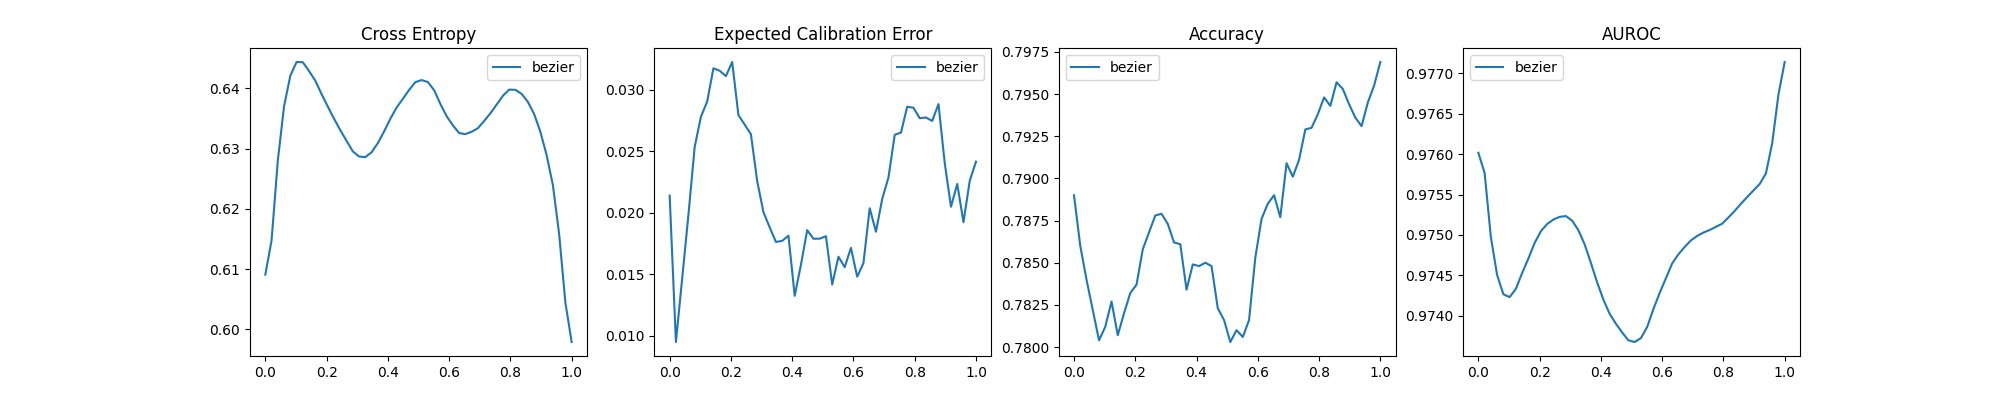
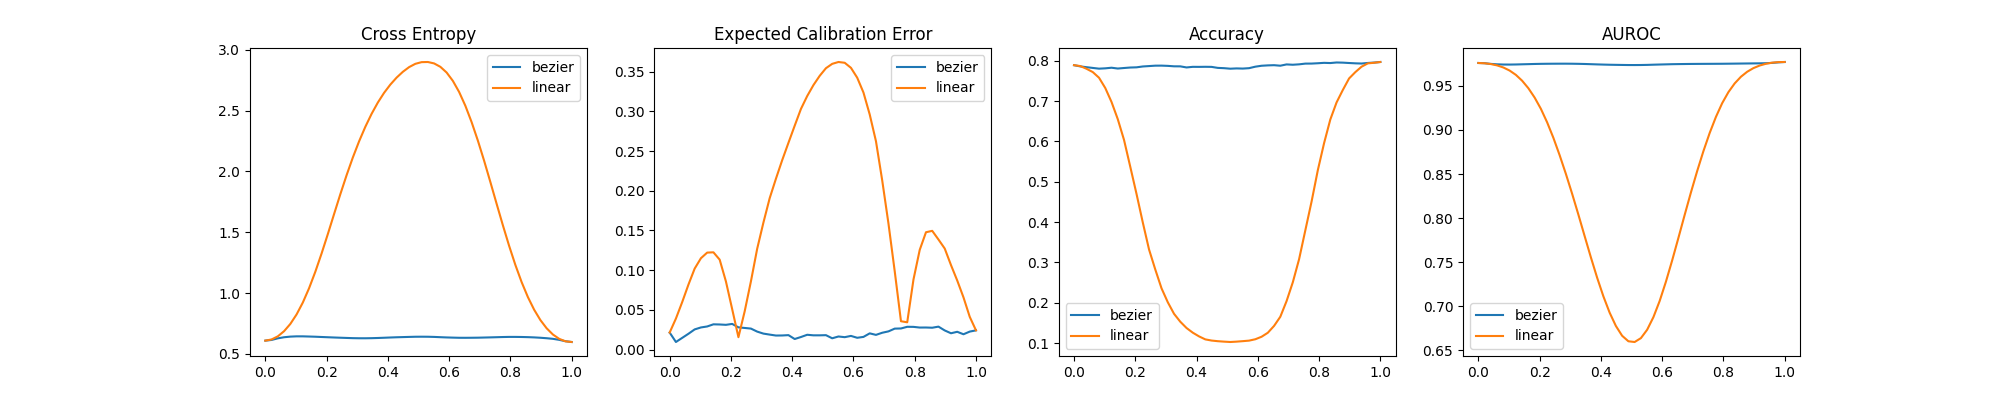
Finale edit

diff --git a/src/models.py b/src/models.py
@@ -354,88 +354,6 @@ class linear_functionestimator(nn.Module):
         return x
 
 
-class CurveParameterization(nn.Module):
-    def __init__(self, curve_fn, t,  param_start, param_end, param_theta):
-        super(CurveParameterization, self).__init__()
-        self.param_start = param_start
-        self.param_end = param_end
-        self.param_theta = param_theta
-        self.t = t
-        self.curve_fn = curve_fn
-
-    def forward(self, x):
-        return self.curve_fn(self.param_start, self.param_end, self.param_theta, self.t)
-
-class Curve(nn.Module):
-    def __init__(self, model_start, model_end, curve_fn, device="cpu"):
-        super(Curve, self).__init__()
-        assert type(model_start) == type(model_end)
-        self.model_start = model_start.requires_grad_(False)
-        self.model_end = model_end.requires_grad_(False)
-        self.model_theta = type(model_start)().to(device)
-        self.sampled_model = type(model_start)().to(device)
-        self.curve_fn = curve_fn
-        self.t = 0
-        self.initiate_theta()
-        self.device=device
-
-    def initiate_theta(self):
-        for param1, param2, param3 in zip(self.model_start.parameters(), 
-                                          self.model_end.parameters(), 
-                                          self.model_theta.parameters()):
-                param3.data = param1.data/2 +  param2.data/2
-
-    def sample_t(self):
-        self.t = torch.distributions.Uniform(0, 1).sample()
-
-    def sample_model(self, t=None, verbose=False):
-        if t == None:
-            t = self.t
-        param_dicts = []
-        self.sampled_model = type(self.model_start)().to(self.device) # overwrite the model, so as to delete previously made reparametrizations
-        for module_start, module_end, module_theta, module_sampled in zip(self.model_start.named_modules(), self.model_end.named_modules(), 
-                                                                          self.model_theta.named_modules(), self.sampled_model.named_modules()):
-            if verbose:
-                print(f"\nModule: {module_start[0]}")
-            for param_start, param_end, param_theta, param_sampled in zip(module_start[1].named_parameters(recurse=False), 
-                                                                          module_end[1].named_parameters(recurse=False), 
-                                                                          module_theta[1].named_parameters(recurse=False), 
-                                                                          module_sampled[1].named_parameters(recurse=False)):
-                if verbose:
-                    print(f"Parameter: {param_sampled[0]}")
-                param_dicts.append({"module_name": module_sampled[0], 
-                                    "module_sampled": module_sampled[1],
-                                    "param_name": param_sampled[0],
-                                    "param_start": param_start[1], 
-                                    "param_end": param_end[1], 
-                                    "param_theta": param_theta[1],
-                                    "param_name_theta": param_theta[0],
-                                    "module_name_theta": module_theta[0]
-                                    })
-        if verbose:
-            print("\n\nParametrizing model")
-        for param_dict in param_dicts:
-            if verbose:
-                print("\n\nXXXXXXXXXXXXXXXXXXXXXXXXXXXXXXXXXXXXXXXXXXXXXXXXXXXXXXXXXXX")
-                print(f"Module_name: {param_dict['module_name']}")
-                print(f"Module_sampled: {param_dict['module_sampled']}")
-                print(f"Parameter: {param_dict['param_name']}")
-                print(f"Theta Parameter name: {param_dict['param_name_theta']}")
-                print(f"Theta Model name: {param_dict['module_name_theta']}")
-
-            param_curve = CurveParameterization(self.curve_fn, t, param_dict["param_start"].data, param_dict["param_end"].data, param_dict["param_theta"])
-            torch.nn.utils.parametrize.register_parametrization(param_dict["module_sampled"], param_dict["param_name"], param_curve)
-            if verbose:
-                print("\nafter reparam:")
-                print(f"Module_name: {param_dict['module_name']}")
-                print(f"Module_sampled: {param_dict['module_sampled']}")
-                print(f"Parameter: {param_dict['param_name']}")
-                print("XXXXXXXXXXXXXXXXXXXXXXXXXXXXXXXXXXXXXXXXXXXXXXXXXXXXXXXXXXX")
-
-    def forward(self, x):
-        return self.sampled_model(x)
-
-
 
 
 

diff --git a/src/curve_model.py b/src/curve_model.py
@@ -1,0 +1,85 @@
+import torch
+import torch.nn as nn
+import torch.nn.utils.parametrize
+
+class CurveParameterization(nn.Module):
+    def __init__(self, curve_fn, t,  param_start, param_end, param_theta):
+        super(CurveParameterization, self).__init__()
+        self.param_start = param_start
+        self.param_end = param_end
+        self.param_theta = param_theta
+        self.t = t
+        self.curve_fn = curve_fn
+
+    def forward(self, x):
+        return self.curve_fn(self.param_start, self.param_end, self.param_theta, self.t)
+
+class Curve(nn.Module):
+    def __init__(self, model_start, model_end, curve_fn, device="cpu"):
+        super(Curve, self).__init__()
+        assert type(model_start) == type(model_end)
+        self.model_start = model_start.requires_grad_(False)
+        self.model_end = model_end.requires_grad_(False)
+        self.model_theta = type(model_start)().to(device)
+        self.sampled_model = type(model_start)().to(device)
+        self.curve_fn = curve_fn
+        self.t = 0
+        self.initiate_theta()
+        self.device=device
+
+    def initiate_theta(self):
+        for param1, param2, param3 in zip(self.model_start.parameters(), 
+                                          self.model_end.parameters(), 
+                                          self.model_theta.parameters()):
+                param3.data = param1.data/2 +  param2.data/2
+
+    def sample_t(self):
+        self.t = torch.distributions.Uniform(0, 1).sample()
+
+    def sample_model(self, t=None, verbose=False):
+        if t == None:
+            t = self.t
+        param_dicts = []
+        self.sampled_model = type(self.model_start)().to(self.device) # overwrite the model, so as to delete previously made reparametrizations
+        for module_start, module_end, module_theta, module_sampled in zip(self.model_start.named_modules(), self.model_end.named_modules(), 
+                                                                          self.model_theta.named_modules(), self.sampled_model.named_modules()):
+            if verbose:
+                print(f"\nModule: {module_start[0]}")
+            for param_start, param_end, param_theta, param_sampled in zip(module_start[1].named_parameters(recurse=False), 
+                                                                          module_end[1].named_parameters(recurse=False), 
+                                                                          module_theta[1].named_parameters(recurse=False), 
+                                                                          module_sampled[1].named_parameters(recurse=False)):
+                if verbose:
+                    print(f"Parameter: {param_sampled[0]}")
+                param_dicts.append({"module_name": module_sampled[0], 
+                                    "module_sampled": module_sampled[1],
+                                    "param_name": param_sampled[0],
+                                    "param_start": param_start[1], 
+                                    "param_end": param_end[1], 
+                                    "param_theta": param_theta[1],
+                                    "param_name_theta": param_theta[0],
+                                    "module_name_theta": module_theta[0]
+                                    })
+        if verbose:
+            print("\n\nParametrizing model")
+        for param_dict in param_dicts:
+            if verbose:
+                print("\n\nXXXXXXXXXXXXXXXXXXXXXXXXXXXXXXXXXXXXXXXXXXXXXXXXXXXXXXXXXXX")
+                print(f"Module_name: {param_dict['module_name']}")
+                print(f"Module_sampled: {param_dict['module_sampled']}")
+                print(f"Parameter: {param_dict['param_name']}")
+                print(f"Theta Parameter name: {param_dict['param_name_theta']}")
+                print(f"Theta Model name: {param_dict['module_name_theta']}")
+
+            param_curve = CurveParameterization(self.curve_fn, t, param_dict["param_start"].data, param_dict["param_end"].data, param_dict["param_theta"])
+            torch.nn.utils.parametrize.register_parametrization(param_dict["module_sampled"], param_dict["param_name"], param_curve)
+            if verbose:
+                print("\nafter reparam:")
+                print(f"Module_name: {param_dict['module_name']}")
+                print(f"Module_sampled: {param_dict['module_sampled']}")
+                print(f"Parameter: {param_dict['param_name']}")
+                print("XXXXXXXXXXXXXXXXXXXXXXXXXXXXXXXXXXXXXXXXXXXXXXXXXXXXXXXXXXX")
+
+    def forward(self, x):
+        return self.sampled_model(x)
+

diff --git a/src/modeconnectivity.py b/src/modeconnectivity.py
@@ -6,7 +6,8 @@ import torchmetrics
 from torchvision import datasets, transforms
 from torch.utils.data import DataLoader
 from matplotlib import pyplot as plt
-from models import MyNet, Lenet5, tiny, Curve, CurveParameterization, MyNet_small, CIFAR10ConvNet
+from models import MyNet, Lenet5, tiny, MyNet_small, CIFAR10ConvNet
+from curve_model import Curve
 from train import train
 from torchviz import make_dot
 import numpy as np
@@ -318,8 +319,10 @@ def curve_fitting(**kargs):
         fig, axs, eval_results = bezier_plot(curve, device, test_loader=test_loader, plottype="linear", 
                                N_bezierpoints = bezierpoints,
                                logger_info=logger.info, plot_linear=False, metrics_dict=metrics_dict)
-        fig.savefig(f"{base_directory}/figures/metric_along_curve_linear.png")
+        fig.savefig(f"{base_directory}/figures/metric_along_curve.png")
         plt.close()
+
+        
 
     #if eval_curve:
     #    curve_eval(curve, samplesize=curve_eval_samplesize, test_loader=test_loader, device=device, logger_info=logger.info, metrics_dict=metrics_dict)
@@ -327,13 +330,13 @@ def curve_fitting(**kargs):
 if __name__ == "__main__":
     parser = argparse.ArgumentParser(description='Mode connectivity')
     parser.add_argument('--basefolder', type=str, help='Folder to store results')
-    parser.add_argument('--createnewfolder', default=False, help='Create new folder if basefolder already exists', type=eval, choices=[True, False])
+    parser.add_argument('--createnewfolder', default=True, help='Create new folder if basefolder already exists', type=eval, choices=[True, False])
     parser.add_argument('--datafolder', type=str, help='Folder to store data')
     parser.add_argument('--dataset', default = "CIFAR10", type=str, help='Dataset to use', choices=["MNIST", "FashionMNIST", "CIFAR10"])
     parser.add_argument('--batchsize', default = 256, type=int, help='Batch size')
     parser.add_argument('--seed', type=int, help='Seed')
     parser.add_argument('--model', default = "CIFAR10ConvNet",  type=str, help='Model to use (MyNet/Lenet5/tiny/MyNet_small/CIFAR10ConvNet)', choices=["MyNet", "Lenet5", "tiny", "MyNet_small", "CIFAR10ConvNet"])
-    parser.add_argument('--retrain', default = False, help='Retrain models if already present in folder', type=eval, choices=[True, False])
+    parser.add_argument('--retrain', default = True, help='Retrain models if already present in folder', type=eval, choices=[True, False])
     parser.add_argument('--model_lr_start', default = 1e-4, type=float, help='Learning rate start')
     parser.add_argument('--model_lr_end', default = 2e-3, type=float, help='Learning rate end')
     parser.add_argument('--model_epochs', default = 100, type=int, help='Number of epochs')
@@ -341,14 +344,14 @@ if __name__ == "__main__":
     parser.add_argument('--model_optimizer', default = "Adam", type=str, help='Optimizer to use for model training', choices=["Adam", "SGD"])
     parser.add_argument('--model_scheduler', default = "diy", type=str, help='Optimizer to use for model training', choices=["linear", "exponential", "diy", "none"])
     
-    parser.add_argument('--retrain_curve', default = False, help='Retrain curve if already present in folder', type=eval, choices=[True, False])
+    parser.add_argument('--retrain_curve', default = True, help='Retrain curve if already present in folder', type=eval, choices=[True, False])
     parser.add_argument('--curve_lr_start', default = 1e-6, type=float, help='Learning rate start')
     parser.add_argument('--curve_lr_end', default = 5e-2, type=float, help='Learning rate end')
     parser.add_argument('--curve_epochs', default = 200, type=int, help='Number of epochs')
     parser.add_argument('--curve_optimizer', default = "SGD", type=str, help='Optimizer to use for curve training', choices=["Adam", "SGD"])
     parser.add_argument('--curve_scheduler', default = "diy", type=str, help='Optimizer to use for curve training', choices=["linear", "exponential", "diy", "none"])
 
-    parser.add_argument('--plot_mesh', default = False, help='Plot loss landscape', type=eval, choices=[True, False])
+    parser.add_argument('--plot_mesh', default = True, help='Plot loss landscape', type=eval, choices=[True, False])
     parser.add_argument('--recalc_mesh', default = True, help='Recalculate loss landscape if already present in folder', type=eval, choices=[True, False])
     parser.add_argument('--meshpoints', default = 20, type=int, help='Number of mesh points')
 

diff --git a/src/curve_plots.py b/src/curve_plots.py
@@ -113,12 +113,15 @@ def bezier_plot(curve, device, test_loader, plottype="semilog", N_bezierpoints =
                                                                     logger_info=logger_info, eval_straight_line=False, 
                                                                     verbose=verbose, metrics_dict=metrics_dict,
                                                                     ts=ts)
+        eval_results = {"curve_perpoint_score_dict": curve_perpoint_measurement_dict, 
+                        "ts": ts, "curve_ensemble_score_dict": curve_ensemble_measurement_dict}
         if plot_linear:
             line_perpoint_measurement_dict, _, line_ensemble_measurement_dict = curve_eval(curve,  
                                                                     test_loader=test_loader, device=device, 
                                                                     logger_info=logger_info, eval_straight_line=True, 
                                                                     verbose=verbose, metrics_dict=metrics_dict,
                                                                     ts=ts)
+            eval_results["line_perpoint_score_dict"] = line_perpoint_measurement_dict
     else:
         curve_perpoint_measurement_dict = eval_results["curve_perpoint_score_dict"]
         line_perpoint_measurement_dict = eval_results.get("line_perpoint_score_dict")

diff --git a/README.md b/README.md
@@ -1,5 +1,5 @@
-# mode-connectivity
-This repo is my implementation of the interesting mode-connectivity result from 
+# Mode-connectivity in loss landscape
+This repo is my implementation of the mode-connectivity result in [1](#ref-1). The paper posits that any two local minima in the loss landscape can be connected by a curve through a valley in the loss landscape. Apart from the curiousity of the fact that this is possible, the result can also be used for quick ensemble samling for uncertainty quantification. 
 <!--- 
 One-paragraph summary: 
 - What problem, what you contribute, what the key result is. 
@@ -13,13 +13,62 @@ Key idea (theory) in 1–2 screens:
 - A short “why it matters / when it fails” section.
 - One figure if you have it.
 --->
+Assume that we have a class of models $\mathcal M$, parametrized by parameters $w \in \mathbb R^n$. Then the paper posits that two neural networks parametrised with $w_1$ and $w_2$, which both are local minimas of the loss function, can be connected by a simple path, which maintain the same minimal loss.
+
+In the paper, the path is parametrized as a chain of two straight lines that both connect to a third parameter set $\theta$:
+$$
+\phi_{\theta}(t) = \left\{\begin{array}{ll}
+2\left(t\theta + (0.5 - t){w}_{1}\right), & 0 \leq t \leq 0.5 \\
+2\left((t - 0.5){w}_{2} + (1 - t)\theta\right), & 0.5 \leq t \leq 1.
+\end{array}\right.
+$$
+Or as I have done in this implementation, the path is parameterized as a bezier curve connecting the start and end points:
+$$
+\phi_{\theta}(t) = (1-t)^2w_1 + 2t(1-t)\theta + t^2w_2
+$$
+Given that the two end-point models parametrized by $w_1$ and $w_2$ has been trained and reached local minimas, the curve-model parametrized by $\phi_{\theta}(t)$ is trained by minimizing the expectation over a uniform distribution on the curve:
+$$
+\ell(\theta) = \underset{t\sim U(0,1)}{\mathbb E}[\mathcal L(\phi_{\theta}(t))]
+$$
+where $\mathcal L$ is the loss at a single model instance.
+
+The loss is minimized by first sampling $t\sim U(0,1)$ and then generating the model $\phi_{\theta}(t)$ in terms of the tuple $(t, \theta, w_1, w_2)$ by using Pytorch' reparametrization functionality. Then the gradient 
+$
+\nabla_\theta\mathcal L(\phi_{\theta}(t))
+$ can be calculated and finally a gradient step can be taken.
+
 
 ## Results
+The following results are created using the standard setting for  `modeconnectivity.py` as described below. CIFAR10 data has been used for this particular experiment. The model used is a pretty standard convolutional neural network with 3 convolutional layers and two linear layers, ReLU activation and 50% dropout. See [models.py](src/models.py) for further details.
+
+The code first trains the start and end models, and next the $\theta$-model is trained. 
+### Loss landscape
+The loss landscape, projected unto the plane suspended by the beziercurve is plottet below. Note that the landscape is squeezed such that $w_1$ is mapped to (1,0), $w_2$ is mapped to (0,1) and $\theta$ is mapped to (0,0). 
+![Loss landscape plot](experiments/curve_experiment_CIFAR10_CIFAR10ConvNet/figures/loss_landscape.png)
+
+It can indeed be seen that the curve lies in a valley as posited in the paper. 
+### Performance metrics along the curve
+Given that $\theta$ is now fixed, the performance along the curve can be investigated. In the follwong plot, several performance measures are plotted as function of time $t$. First the Cross Entropy, which is also the loss used for training. Note that the Cross Entropy loss is a slighty bit higher in the inner part of the curve, than at the endpoints. That is reasonable, since the endpoints have been trained freely, whereas the curve is optimized along its full length. However, the difference between the inner parts of the curve and the endpoints is not very large compared to the difference between the endpoints. With regards to the accuracy, the models sampled along the curve are actually *better* than the ones at the endpoints.
+
+![Performance measures along the curve](experiments/curve_experiment_CIFAR10_CIFAR10ConvNet/figures/metric_along_curve.png)
+### Ensemble prediction
+Finally, the question is: What if use parameter sets sampled along the curve as ensembles? In the normal setup for a classification task, the model would predict logits $\hat z = p_{w}(x)$, which would then be turned into probabilites for each class: 
+$$
+\hat y = \text{softmax}(\hat z).
+$$
+Instead, in ensemble prediction we use the sampled parameter sets and average over the output: 
+$$
+\hat z = \frac{1}{K}\sum_i^K p_{\phi_{\theta}(t)}(x)
+$$
+The idea is that the parameter samples $\phi_{\theta}(t)$ where $t\in U(0,1)$ should estimate the Bayesian posterior distribution roughly. Ok... very rough approximation, but still. 
+
+This should in turn result in a more robust model.
 <!--- 
 Results:
 - Table/plot with the headline outcome.
 - Link to results/ artifacts.
 --->
+
 
 ## How to run
 <!--- 
@@ -29,15 +78,67 @@ How to run:
 - Full reproduction (optional)
 - Hardware/time caveats (brief, factual)
 --->
-
+Create a local environment and install the required packages in the requirements.txt file:
+```
+pip install -r requirements.txt
+```
+Then the code can be run with the standard settings with
+```
+python3 modeconnectivity.py
+```
 ## Repo layout
 <!--- 
 Repo layout
 - What’s in src/, evaluation/, etc.
 --->
 
+```
+mode-connectivity/
+├── LICENSE
+├── README.md
+├── requirements.txt
+├── data/
+│   ├── train/
+│   └── test/
+├── experiments/
+│   └── curve_experiment_CIFAR10_CIFAR10ConvNet/
+│       ├── curve_model/
+│       ├── end_model/
+│       ├── figures/
+│       ├── logs/
+│       ├── models/
+│       └── start_model/
+├── notebooks/
+├── scripts/
+└── src/
+	├── curve_eval.py
+	├── curve_plots.py
+	├── modeconnectivity.py
+	├── models.py
+	├── scheduler.py
+	└── train.py
+```
+
+- `LICENSE`: License for the project.
+- `README.md`: Project overview, results, and usage instructions.
+- `requirements.txt`: Python dependencies.
+- `data/`: Local training and test datasets (MNIST, FashionMNIST, CIFAR-10).
+- `experiments/`: Saved outputs from runs (models, logs, plots, and artifacts).
+- `notebooks/`: Interactive notebooks for exploration and analysis.
+- `scripts/`: Utility scripts for running or automating experiments.
+- `src/`: Core source code for training, curve optimization, evaluation, and plotting.
+	- `train.py`: Standard model training routines.
+	- `modeconnectivity.py`: Main script to train endpoint models and fit the curve model.
+	- `models.py`: Model architectures used in experiments.
+	- `scheduler.py`: Learning-rate scheduling logic.
+	- `curve_eval.py`: Evaluation utilities for models along the curve.
+	- `curve_plots.py`: Plotting utilities for landscapes and curve metrics.
+
 <!--- 
 Citation / attribution
 - BibTeX or a short citation line if it maps to a paper/report.
 --->
 
+## References
+
+1. <a id="ref-1"></a> Timur Garipov, Pavel Izmailov, Dmitrii Podoprikhin, Dmitry Vetrov, and Andrew Gordon Wilson. 2018. Loss surfaces, mode connectivity, and fast ensembling of DNNs. In Proceedings of the 32nd International Conference on Neural Information Processing Systems (NIPS'18). Curran Associates Inc., Red Hook, NY, USA, 8803–8812. https://arxiv.org/pdf/1802.10026
